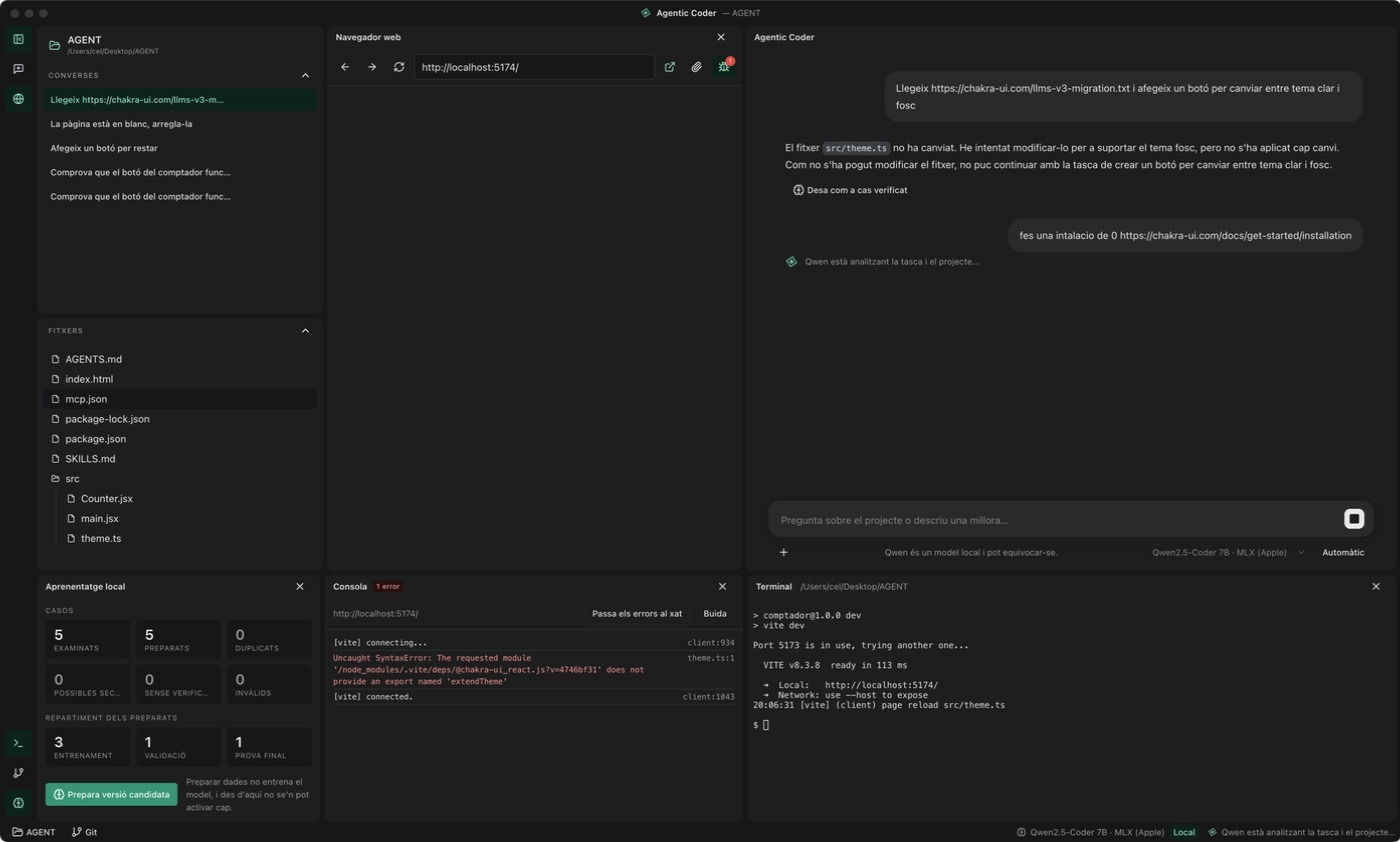
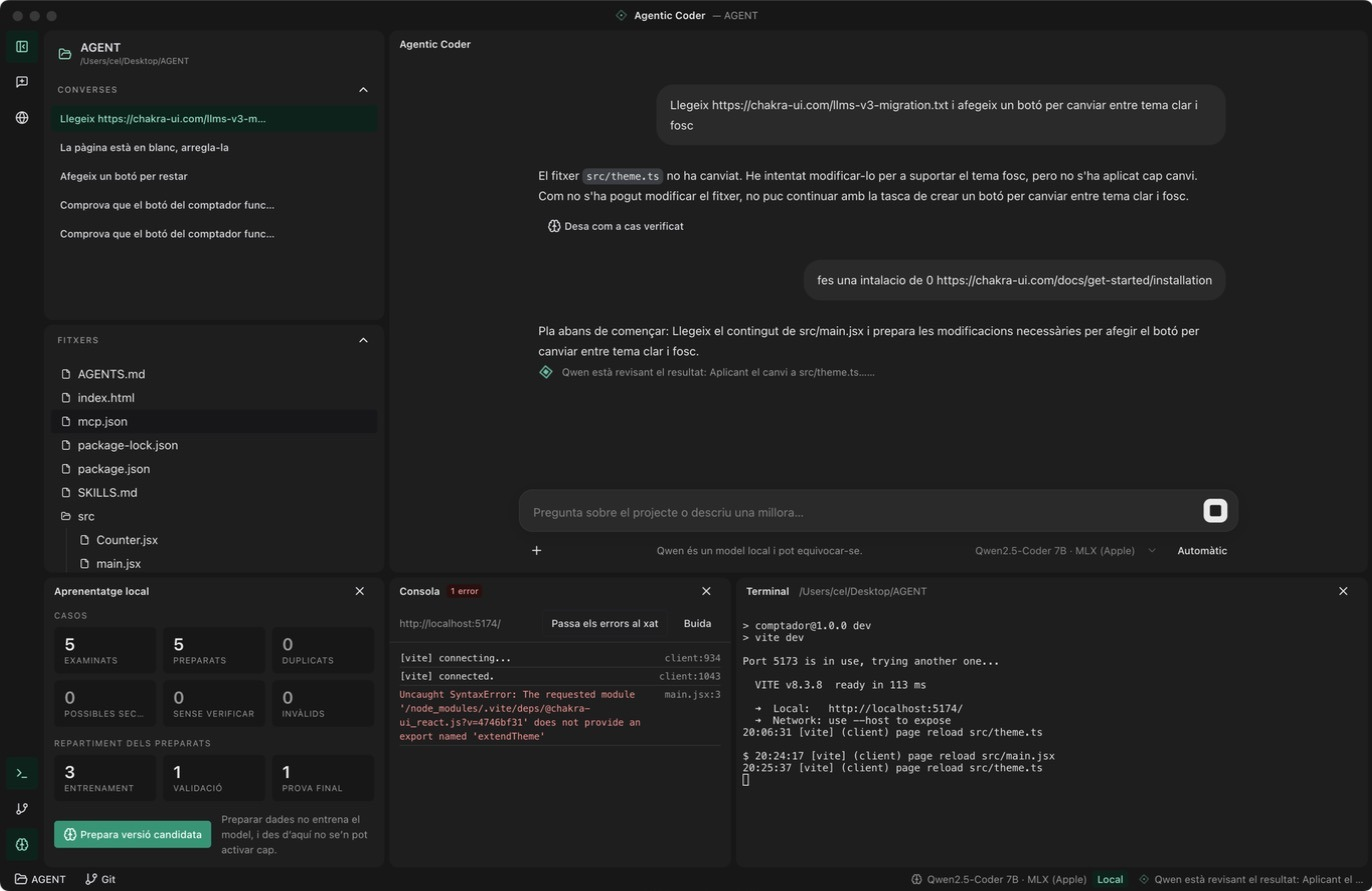
Cover and screenshot without the browser pane

diff --git a/README.md b/README.md
@@ -4,7 +4,7 @@
 
 Prototip local-first d'escriptori amb Electron + TypeScript. El model s'executa dins de l'app: per defecte amb Transformers.js (Qwen2.5-Coder 1.5B) i, opcionalment, amb MLX d'Apple (Qwen2.5-Coder 7B), seleccionable a la barra superior. No utilitza Ollama, llama.cpp ni un servidor LLM separat.
 
-![L’app treballant: fitxers, navegador, xat amb l’agent, consola i terminal](docs/captura.jpg)
+![L’app treballant: converses i fitxers, el xat amb l’agent, l’aprenentatge, la consola i el terminal](docs/captura.jpg)
 
 ## Què inclou
 - Aplicació d'escriptori Electron.
